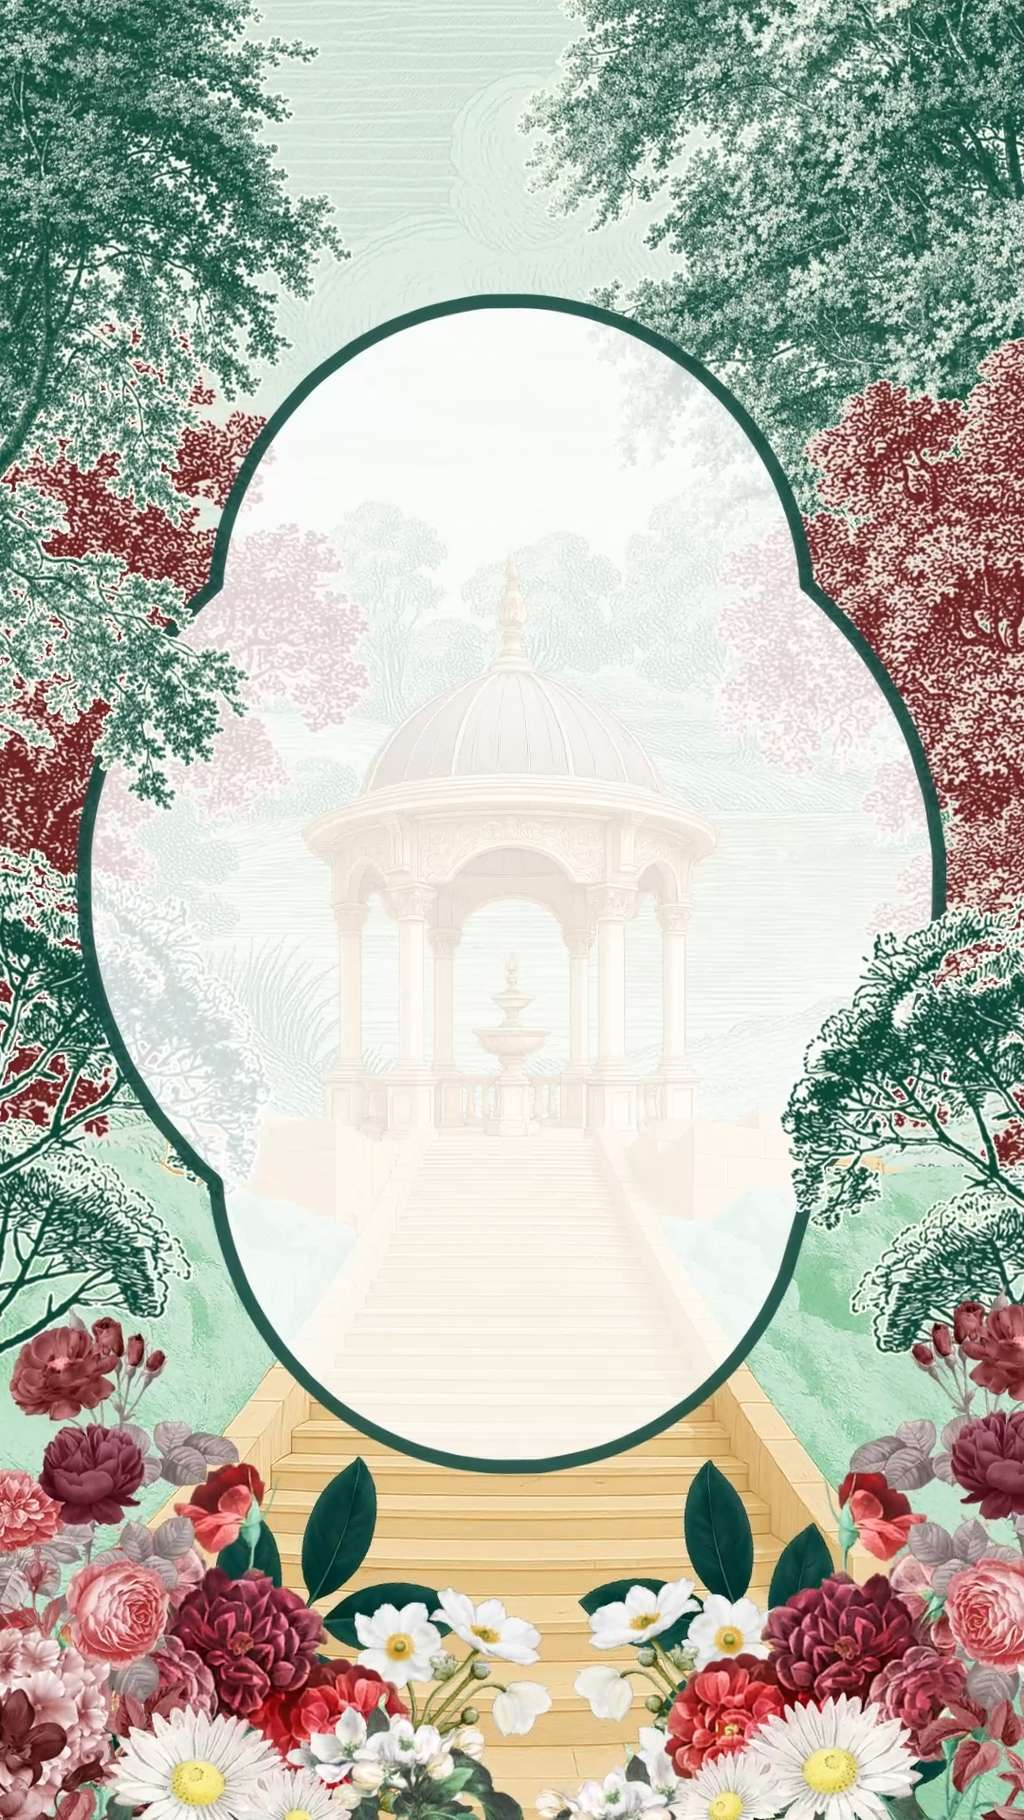
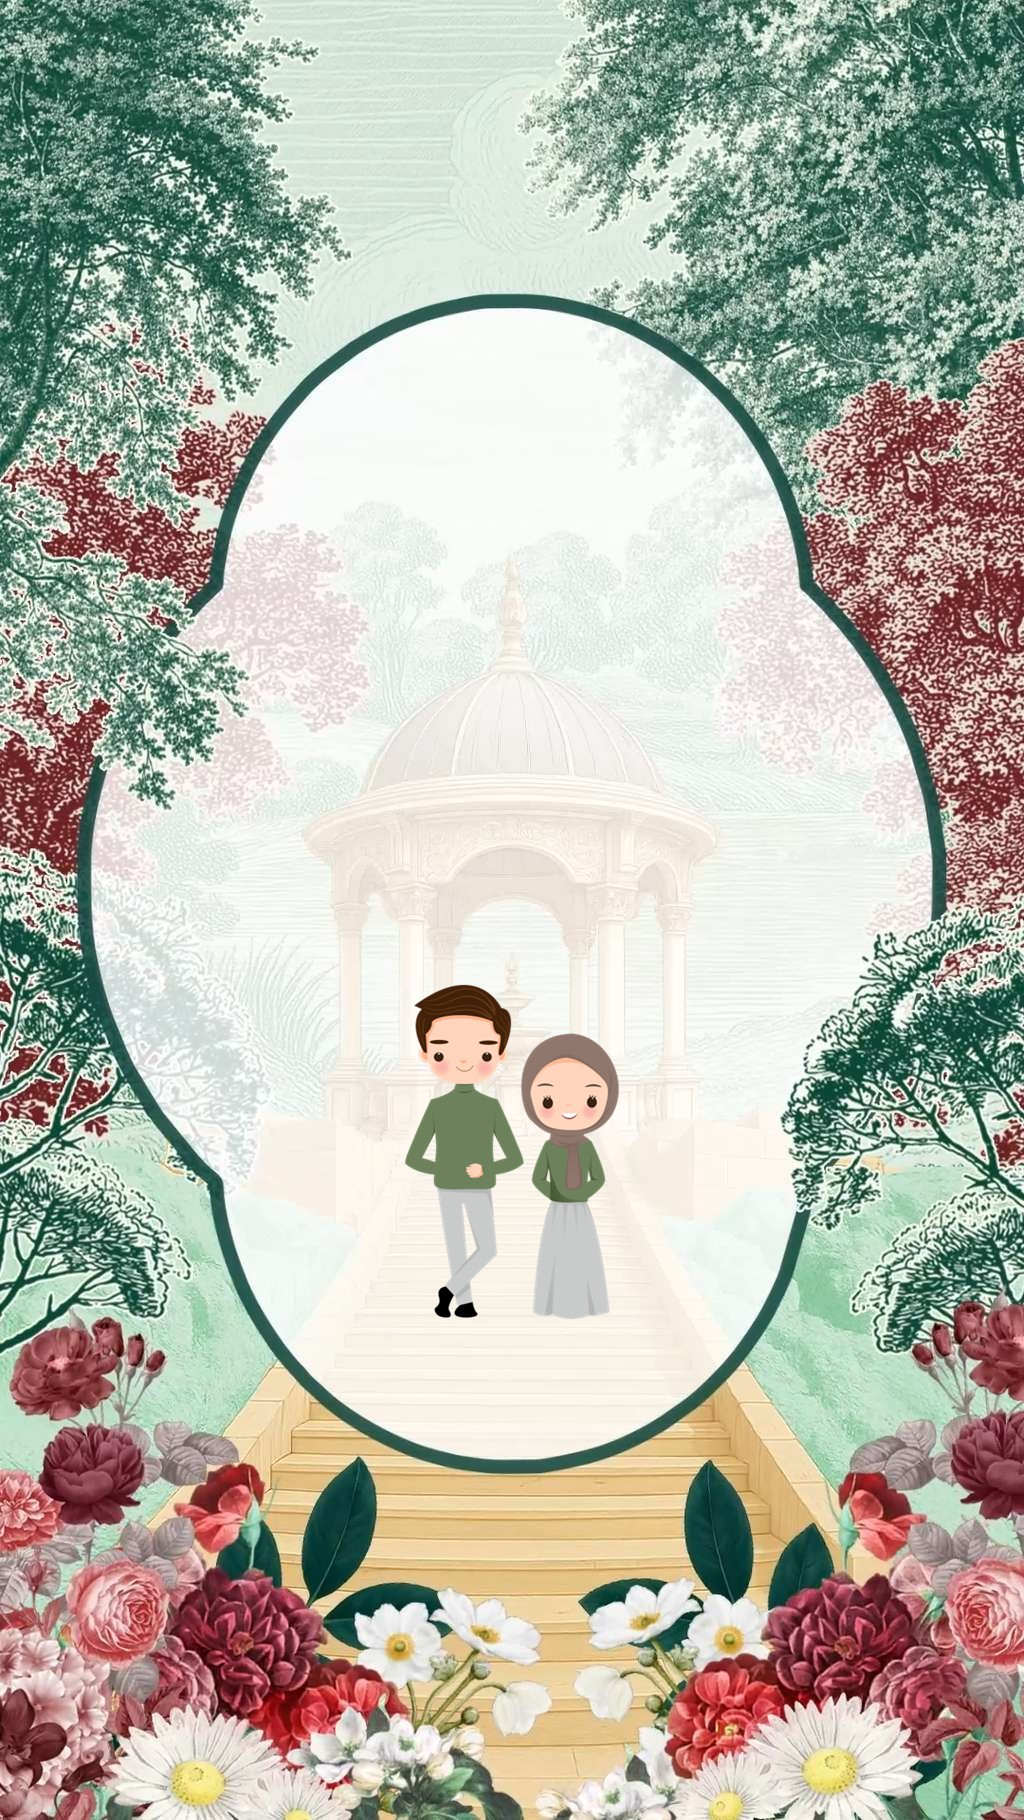
Prioritize animated photo, remove dead video link, add Ken Burns CSS motion

Changed region(s): [[0.375, 0.5231, 0.625, 0.7385]]

diff --git a/index.html b/index.html
@@ -6,6 +6,8 @@
 
 	<!-- This site is optimized with the Yoast SEO plugin v28.3 - https://yoast.com/product/yoast-seo-wordpress/ -->
 	<title>The Wedding of Ilma &amp; Lana</title>
+	<link rel="preload" as="image" href="assets/site/wp-content/uploads/2026/06/FALLBACK-HIJAU-V2-MOTION-PII-1.jpg" fetchpriority="high" />
+	<link rel="preload" as="image" href="assets/site/wp-content/uploads/2026/06/MUSLIM-21-1.webp" fetchpriority="high" />
 	<meta name="description" content="Undangan Pernikahan Ilma Aulia Sabarita, S.E. &amp; H. Muhammad Lana Syifaun Niams, S.E. - Andalba Project" />
 	<meta property="og:locale" content="id_ID" />
 	<meta property="og:type" content="article" />
@@ -138,7 +140,7 @@ body.idb-hide-love-story .ls-section{display:none!important}body.idb-hide-weddin
 var bisdevBrowserProtection = {"mode":"lock","redirectUrl":"https://andalbaproject.id/"};
 //# sourceURL=bisdev-browser-protection-js-extra
 </script>
-<script id="bisdev-browser-protection-js" src="assets/site/wp-content/plugins/bisdev-pro/assets/dist/js/browser-protection.c86bd548.js"></script>
+<!-- <script id="bisdev-browser-protection-js" src="assets/site/wp-content/plugins/bisdev-pro/assets/dist/js/browser-protection.c86bd548.js"></script> -->
 <link rel="https://api.w.org/" href="https://inv.andalbaproject.id/wp-json/" /><link rel="alternate" title="JSON" type="application/json" href="https://inv.andalbaproject.id/wp-json/wp/v2/pages/32125" /><link rel="EditURI" type="application/rsd+xml" title="RSD" href="https://inv.andalbaproject.id/xmlrpc.php?rsd" />
 <meta name="generator" content="WordPress 7.1.3" />
 <link rel='shortlink' href='https://inv.andalbaproject.id/?p=32125' />
@@ -180,7 +182,24 @@ p {
 </style>
 <meta name="viewport" content="width=device-width, initial-scale=1.0, viewport-fit=cover maximum-scale=1.0, user-scalable=no">
 <meta name="format-detection" content="telephone=no">
-	<meta name="viewport" content="width=device-width, initial-scale=1.0, viewport-fit=cover" /></head>
+	<meta name="viewport" content="width=device-width, initial-scale=1.0, viewport-fit=cover" /><style id="foto-animasi-prioritas">
+@keyframes kenBurnsSlideAwal {
+  0% { transform: scale(1.0); }
+  50% { transform: scale(1.05); }
+  100% { transform: scale(1.0); }
+}
+.slideAwal {
+  animation: kenBurnsSlideAwal 10s ease-in-out infinite alternate !important;
+  background-image: url('assets/site/wp-content/uploads/2026/06/FALLBACK-HIJAU-V2-MOTION-PII-1.jpg') !important;
+  background-size: cover !important;
+  background-position: center center !important;
+  background-repeat: no-repeat !important;
+}
+.elementor-background-video-container {
+  display: none !important;
+}
+</style>
+</head>
 <body class="wp-singular page-template-default page page-id-32125 wp-custom-logo wp-embed-responsive wp-theme-hello-elementor hello-elementor-default elementor-default elementor-template-canvas elementor-kit-4 elementor-page elementor-page-32125 idb-slot-empty-cover idb-slot-empty-opening idb-slot-empty-closing idb-slot-empty-mempelai1 idb-slot-empty-mempelai2 idb-hide-live-streaming idb-hide-kirim-hadiah">
 	<link rel="stylesheet" href="assets/cdn/cdn.jsdelivr.net/gh/Bisdev-gift/elementor-script@main/css/anti-cubit.css">
 <link rel="stylesheet" href="assets/cdn/cdn.jsdelivr.net/gh/Bisdev-gift/elementor-script@main/css/foto.css">
@@ -254,11 +273,8 @@ p {
 						</div>
 				</div>
 				</div>
-		<div class="elementor-element elementor-element-1e5f2e13 e-con-full e-flex e-con e-child" data-id="1e5f2e13" data-element_type="container" data-e-type="container">
-		<div class="elementor-element elementor-element-1b95b35e e-con-full slideAwal e-flex e-con e-child" data-id="1b95b35e" data-element_type="container" data-e-type="container" data-settings="{&quot;background_background&quot;:&quot;video&quot;,&quot;background_video_link&quot;:&quot;https:\/\/inv.andalbaproject.id\/wp-content\/uploads\/2026\/06\/VINTAGE-06-BARU.mp4&quot;,&quot;background_video_start&quot;:0.1,&quot;background_play_once&quot;:&quot;yes&quot;,&quot;background_play_on_mobile&quot;:&quot;yes&quot;}">
-		<div class="elementor-background-video-container">
-							<video class="elementor-background-video-hosted" role="presentation" autoplay muted playsinline></video>
-					</div><div class="idb-reveal idb-ef zoom-out elementor-element elementor-element-70dfdeef e-con-full e-flex e-con e-child" data-reveal-offset="100" data-reveal-duration="800" data-reveal-delay="300" style="transition-duration: 800ms; transition-delay: 300ms;" data-id="70dfdeef" data-element_type="container" data-e-type="container">
+		<div class="elementor-element elementor-element-1e5f2e13 e-con-full e-flex e-con e-child e-no-lazyload e-lazyloaded" data-id="1e5f2e13" data-element_type="container" data-e-type="container">
+		<div class="elementor-element elementor-element-1b95b35e e-con-full slideAwal e-flex e-con e-child e-no-lazyload e-lazyloaded" data-id="1b95b35e" data-element_type="container" data-e-type="container" data-settings="{&quot;background_background&quot;:&quot;classic&quot;}"><div class="idb-reveal idb-ef zoom-out elementor-element elementor-element-70dfdeef e-con-full e-flex e-con e-child" data-reveal-offset="100" data-reveal-duration="800" data-reveal-delay="300" style="transition-duration: 800ms; transition-delay: 300ms;" data-id="70dfdeef" data-element_type="container" data-e-type="container">
 				<div class="elementor-element elementor-element-3ee90b5c elementor-widget elementor-widget-heading" data-id="3ee90b5c" data-element_type="widget" data-e-type="widget" data-widget_type="heading.default">
 				<div class="elementor-widget-container">
 					<h2 class="elementor-heading-title elementor-size-default">The Wedding of</h2>				</div>
